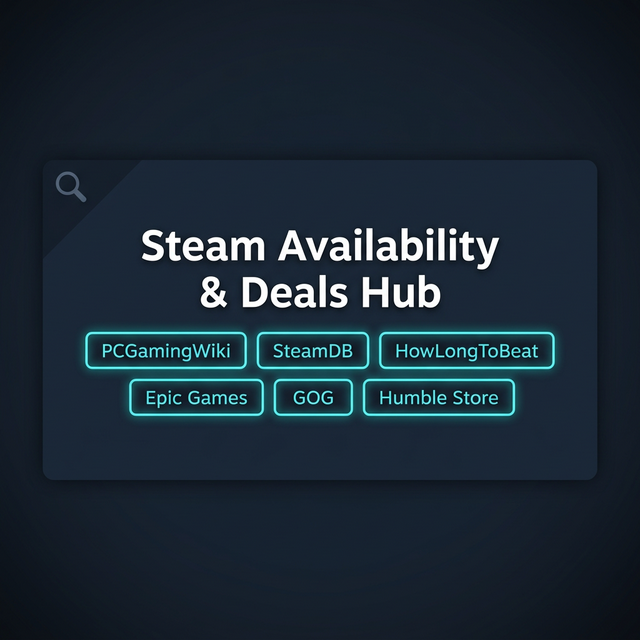
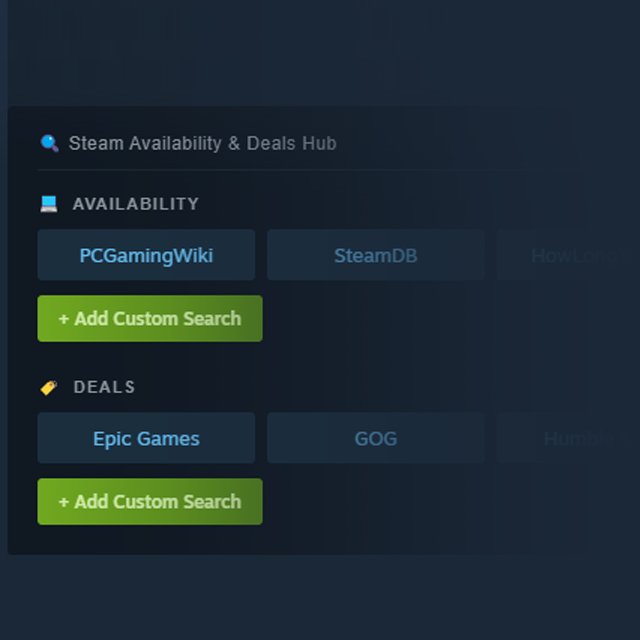
Update thumbnail and index.js

diff --git a/.millennium/Dist/index.js b/.millennium/Dist/index.js
@@ -126,7 +126,7 @@ let PluginEntryPointMain = function() { var millennium_main = (function (exports
         console.log('[SADH] Window created:', context);
     }
     const SettingsContent = () => {
-        return (jsxRuntime.jsx(client.Field, { label: "Steam Availability & Deals Hub", description: "Open any game's Steam store page to see the Availability & Deals panel in the right column.", icon: jsxRuntime.jsx(client.IconsModule.Settings, {}), bottomSeparator: "standard", focusable: true, children: jsxRuntime.jsx(client.DialogButton, { onClick: () => console.log('[SADH] clicked'), children: "About" }) }));
+        return (jsxRuntime.jsx(client.Field, { label: "Steam Availability & Deals Hub", description: "Open any game's Steam store page to see the Availability & Deals.", icon: jsxRuntime.jsx(client.IconsModule.Settings, {}), bottomSeparator: "standard", focusable: true, children: jsxRuntime.jsx(client.DialogButton, { onClick: () => console.log('[SADH] clicked'), children: "About" }) }));
     };
     var index = client.definePlugin(() => {
         client.Millennium.AddWindowCreateHook(windowCreated);
